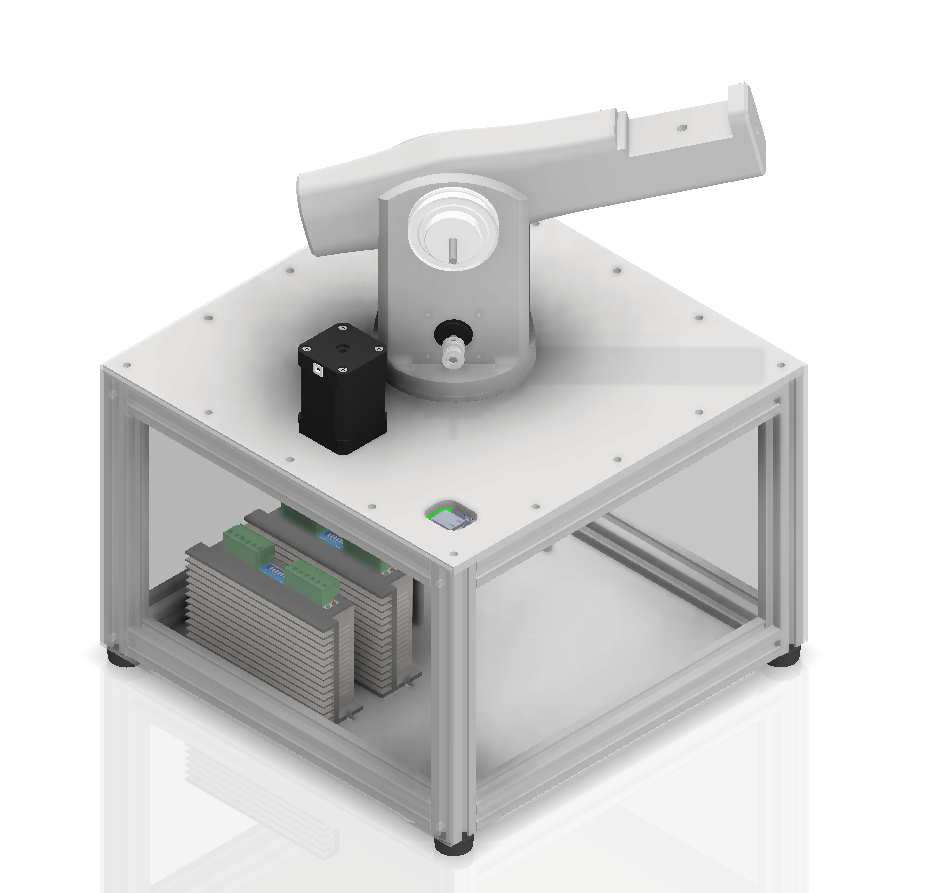
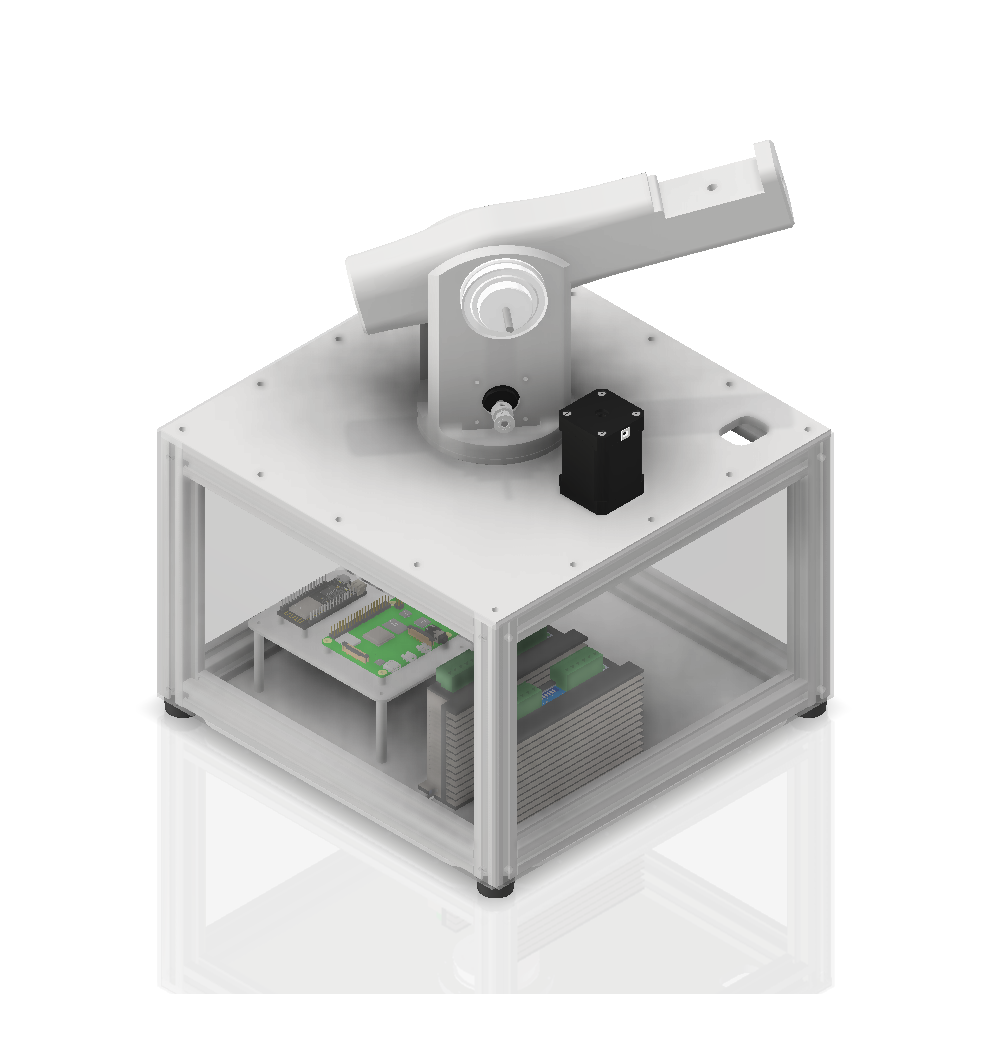
docs: crop and center the new 3D render cover image

diff --git a/CHANGELOG.md b/CHANGELOG.md
@@ -282,3 +282,18 @@
 ### ✅ 결과
 - (작업 후 기록 예정)
 - 새로 전달받은 이미지 파일로 기존의 turret_diagram.png 파일을 완전히 교체함
+
+---
+
+## [2026-06-20] README.md 커버 이미지 3차 교체 (크롭 및 중앙 정렬)
+
+### 📌 계획
+- 사용자가 새로 업로드한 3D 모델 이미지를 불러와, 터렛 본체가 정중앙에 오도록 상하좌우 여백을 크롭(Crop) 처리
+- 크롭된 이쁜 이미지로 기존 \	urret_diagram.png\ 교체 수행
+
+### 🔧 변경 파일
+- \	urret_diagram.png\: 크롭된 새 이미지로 교체
+
+### ✅ 결과
+- (작업 후 기록 예정)
+- Python(OpenCV)을 이용하여 이미지의 여백을 완벽하게 잘라내고(Crop) 중앙 정렬 처리한 후 turret_diagram.png 교체 완료